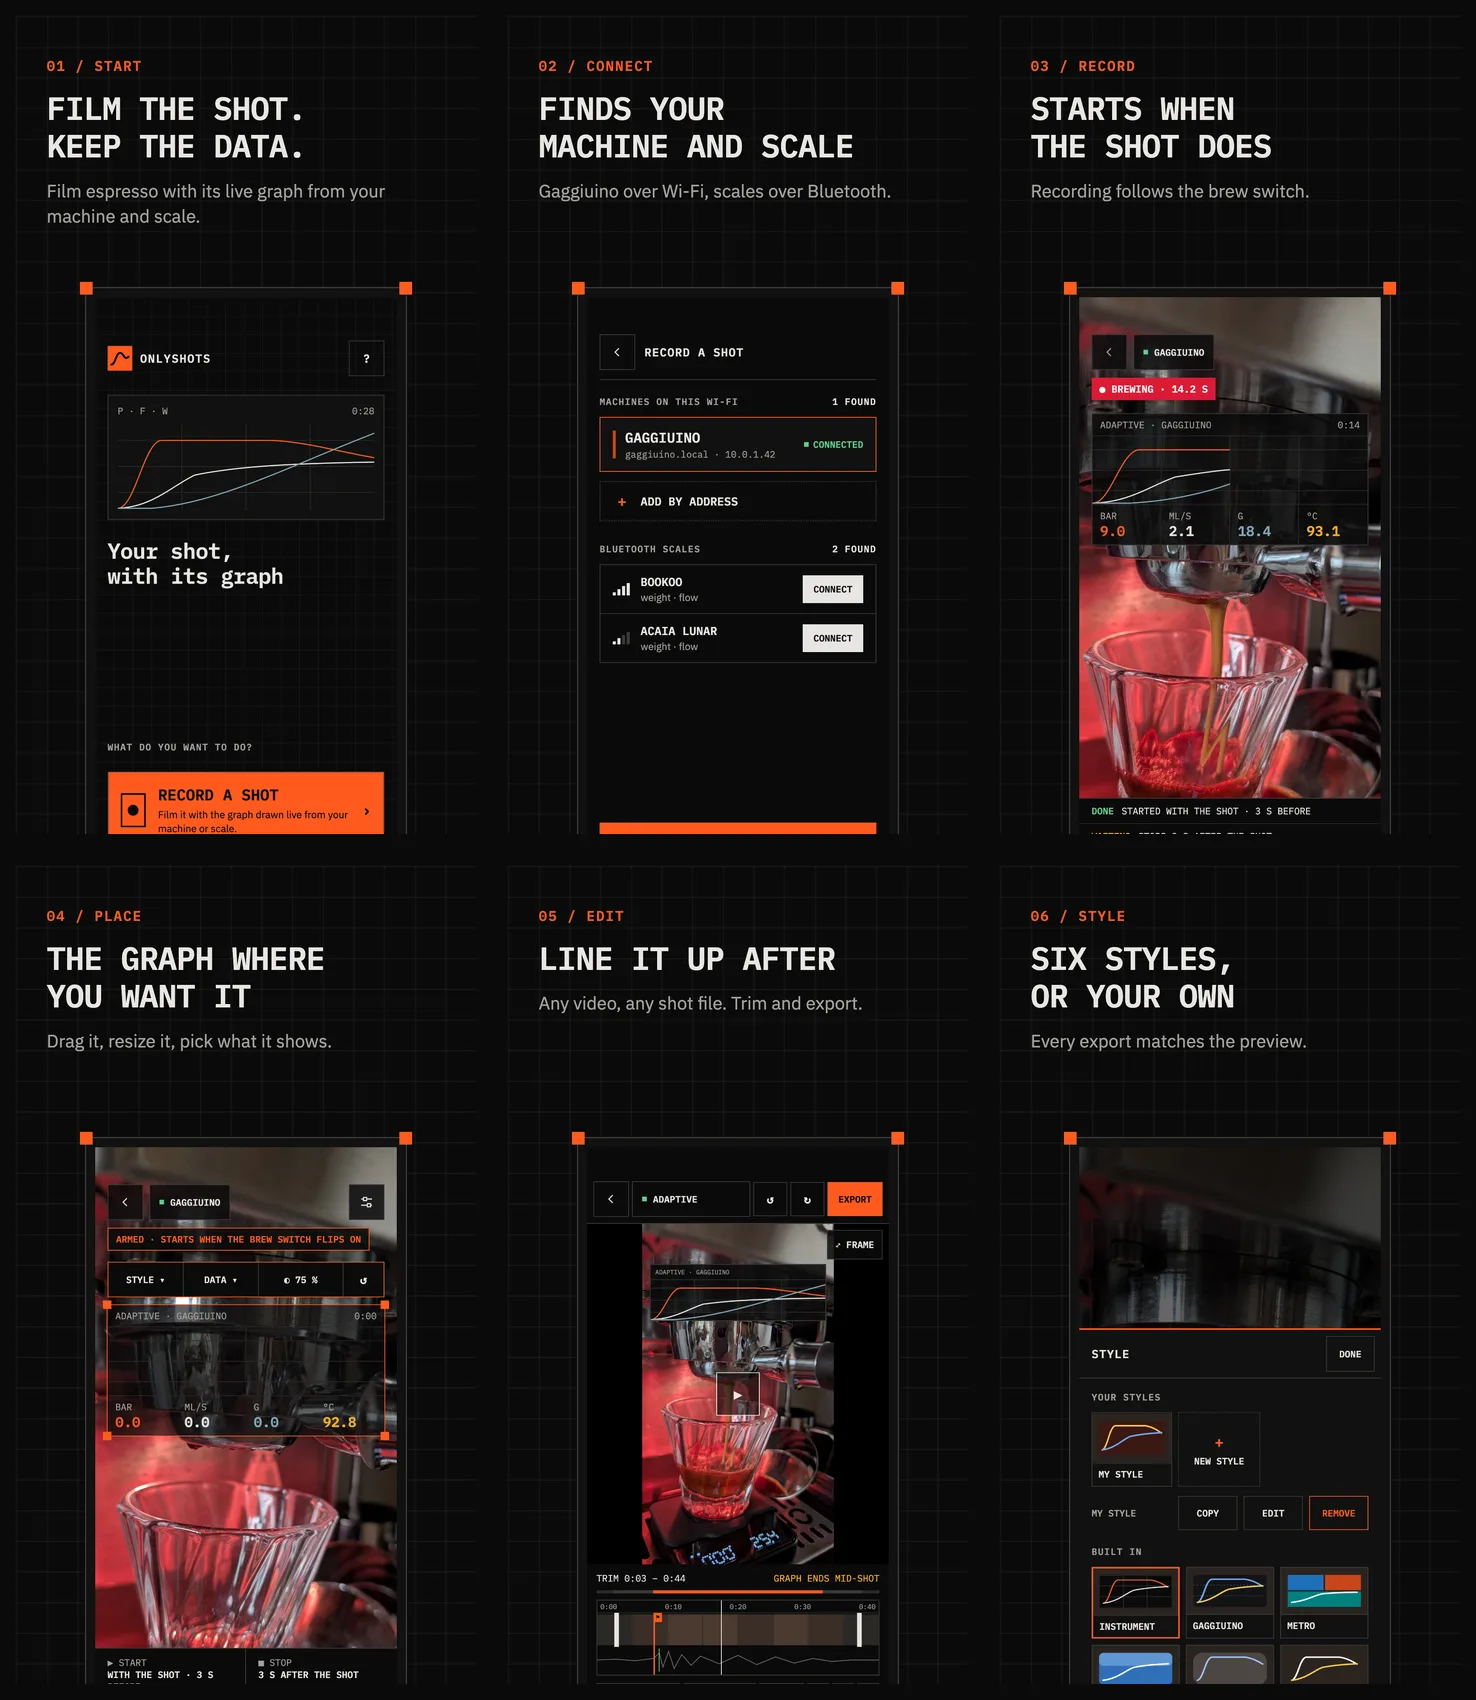
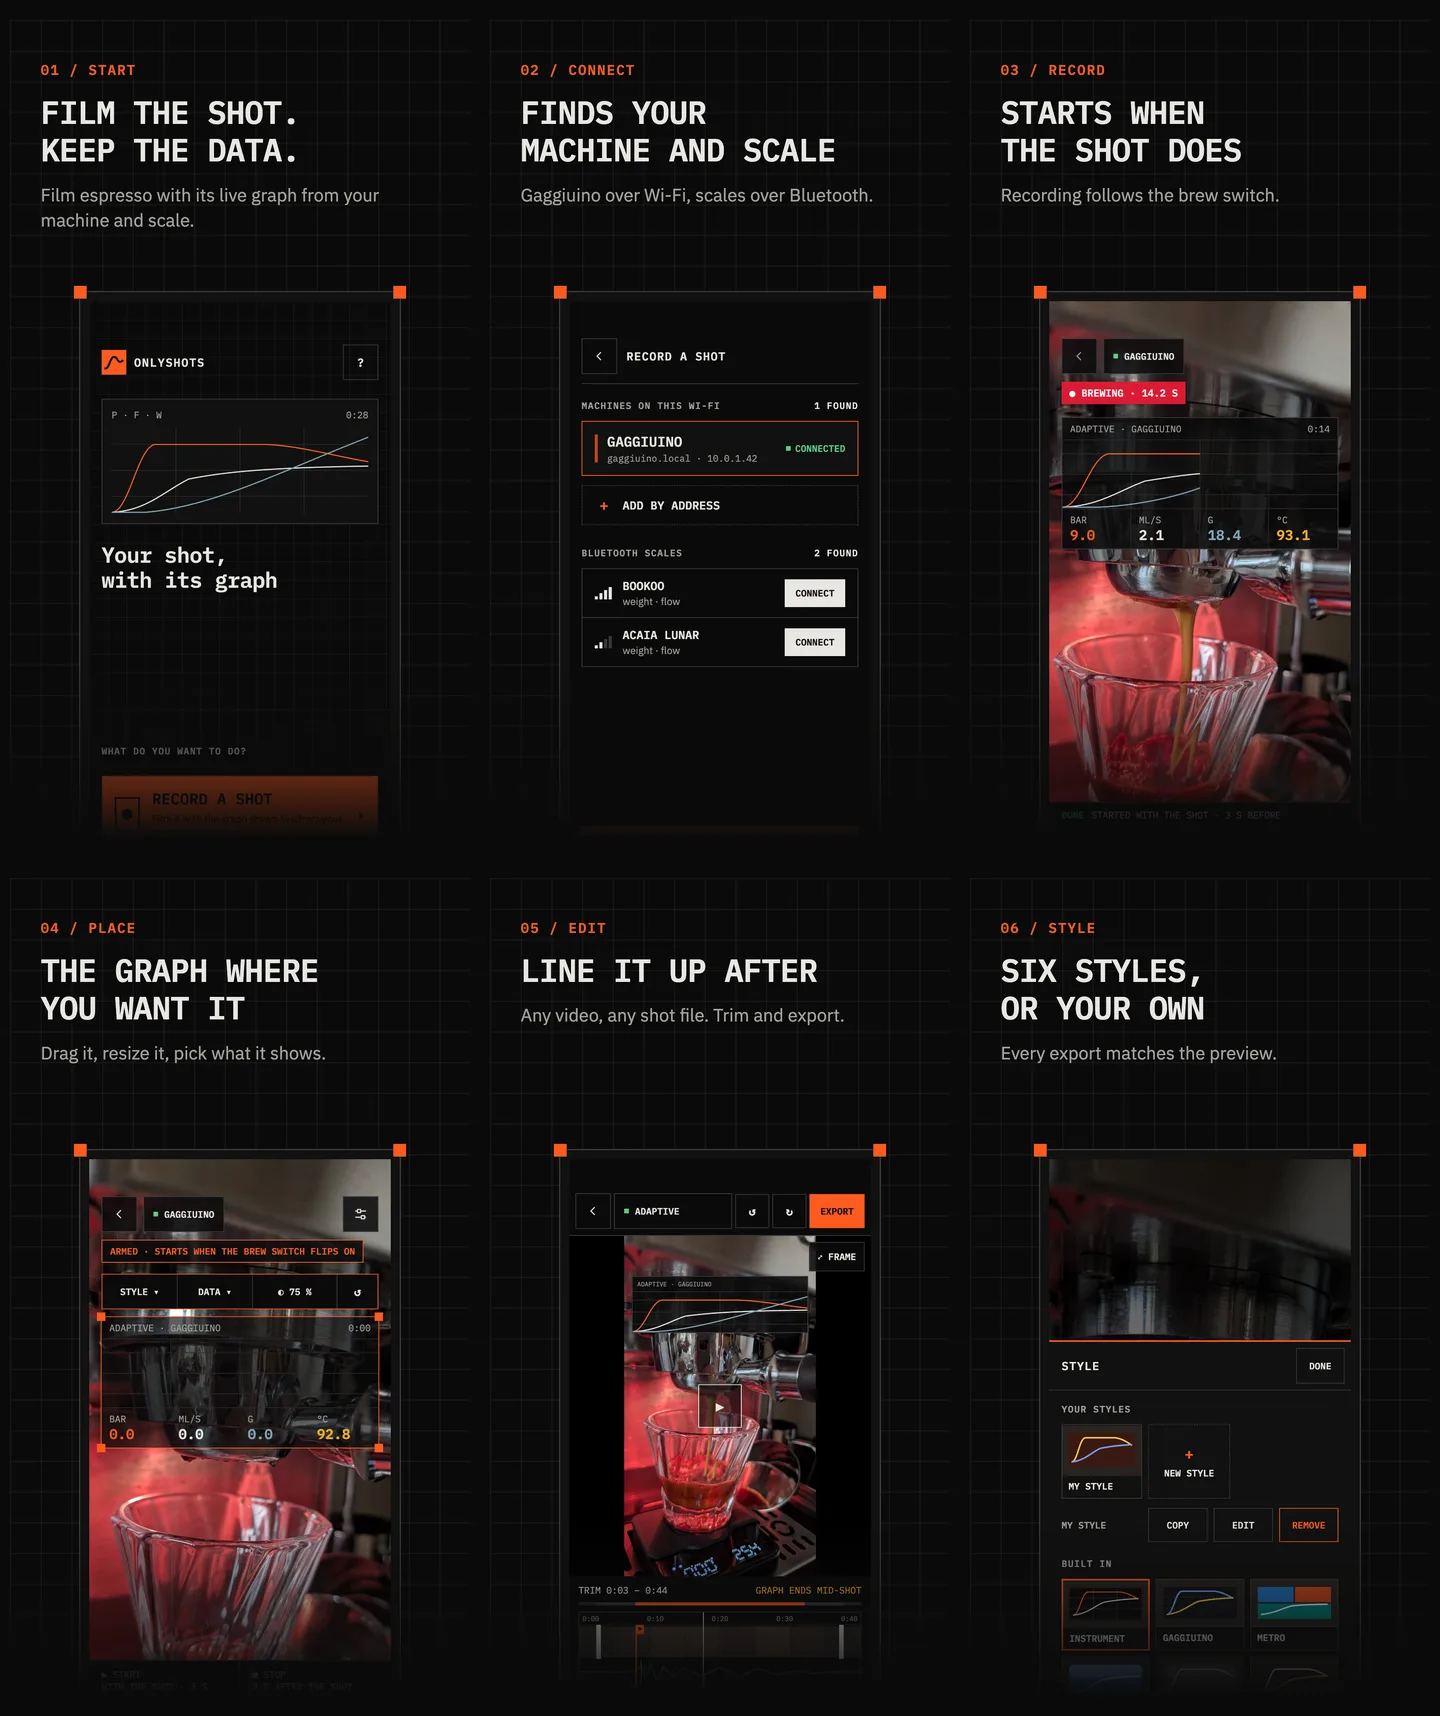
README showcase: phone tiles fade out at the bottom instead of looking cut

diff --git a/assets/readme/source/build.md b/assets/readme/source/build.md
@@ -6,7 +6,7 @@ Everything in `assets/readme/` comes from the project's own material: the logo k
 | File | Made from | How |
 | --- | --- | --- |
 | `hero.gif`, `hero.png` | `source/hero-layout.svg` + `source/hero-photo.jpg` | `render-hero.mjs` (below). The GIF plots the shot, holds, winds back; its last frame equals its first. `hero.png` is the settled frame, shown when the viewer asks for reduced motion. |
-| `showcase-phones.webp` | `design/store/play/phone/01–06.png` | `magick montage design/store/play/phone/0{1,2,3,4,5,6}.png -tile 3x2 -geometry 460x818+8+8 -background '#0B0B0B' -bordercolor '#0B0B0B' -border 8 wall.png && cwebp -q 82 wall.png -o showcase-phones.webp` |
+| `showcase-phones.webp` | `design/store/play/phone/01–06.png` | The store frames run the phone off their bottom edge; in a grid that reads as a cut, so each tile's bottom fades into ink first: `magick -size 1080x420 gradient:'rgba(11,11,11,0)-rgba(11,11,11,1)' fade.png`, then per frame `magick 0N.png fade.png -gravity south -composite faded/0N.png`, then `magick montage faded/0{1,2,3,4,5,6}.png -tile 3x2 -geometry 460x818+10+20 -background '#0B0B0B' wall.png && cwebp -q 82 wall.png -o showcase-phones.webp` |
 | `record`, `edit`, `connect`, `styles` `.webp` | `design/store/play/tablet-10/01–04.png` | The device picture without the store headline: `magick 01.png -crop 1640x1060+880+250 +repage c.png && cwebp -q 84 -resize 1400 0 c.png -o record.webp` (02 edit, 03 connect, 04 styles) |
 | `section-*.svg`, `workflow.svg` | Hand-written | Plain SVG: system fonts, own ink background (reads the same in GitHub's light and dark themes), `<title>` and `<desc>`. |
 | `source/hero-photo.jpg` | `design/store/photos/pouring.jpg` | `magick pouring.jpg -strip -gravity center -crop 1542x1770+0-40 +repage -resize 704x -quality 85 hero-photo.jpg` |
